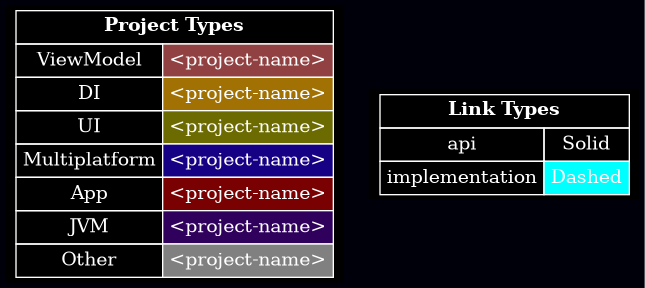
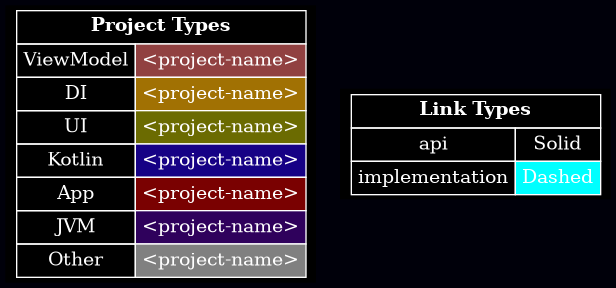
Rename module type (#862)

diff --git a/gradle/build-logic/src/main/kotlin/aktual/gradle/ModuleKotlin.kt b/gradle/build-logic/src/main/kotlin/aktual/gradle/ModuleKotlin.kt
@@ -14,7 +14,7 @@ import org.gradle.kotlin.dsl.apply
 import org.gradle.kotlin.dsl.configure
 import org.jetbrains.kotlin.gradle.plugin.KotlinMultiplatformPluginWrapper
 
-class ModuleMultiplatform : Plugin<Project> {
+class ModuleKotlin : Plugin<Project> {
   override fun apply(target: Project): Unit =
     with(target) {
       with(pluginManager) {

diff --git a/gradle/build-logic/src/main/kotlin/aktual/gradle/ModuleCompose.kt b/gradle/build-logic/src/main/kotlin/aktual/gradle/ModuleCompose.kt
@@ -21,7 +21,7 @@ class ModuleCompose : Plugin<Project> {
   override fun apply(target: Project): Unit =
     with(target) {
       with(pluginManager) {
-        apply(ModuleMultiplatform::class)
+        apply(ModuleKotlin::class)
         apply(ConventionCompose::class)
       }
 

diff --git a/gradle/build-logic/src/main/kotlin/aktual/gradle/ModuleViewModel.kt b/gradle/build-logic/src/main/kotlin/aktual/gradle/ModuleViewModel.kt
@@ -11,7 +11,7 @@ class ModuleViewModel : Plugin<Project> {
   override fun apply(target: Project) =
     with(target) {
       with(pluginManager) {
-        apply(ModuleMultiplatform::class)
+        apply(ModuleKotlin::class)
         apply(ConventionCompose::class)
       }
 

diff --git a/gradle/build-logic/src/main/kotlin/aktual/gradle/ModuleDi.kt b/gradle/build-logic/src/main/kotlin/aktual/gradle/ModuleDi.kt
@@ -8,7 +8,7 @@ class ModuleDi : Plugin<Project> {
   override fun apply(target: Project) =
     with(target) {
       with(pluginManager) {
-        apply(ModuleMultiplatform::class)
+        apply(ModuleKotlin::class)
         apply(ConventionDi::class)
       }
     }

diff --git a/CLAUDE.md b/CLAUDE.md
@@ -246,7 +246,7 @@ kotlin {
 The project uses Gradle convention plugins to centralize build configuration:
 
 **Module Plugins** (use these when creating new modules):
-- `aktual.module.multiplatform` - Base KMP module (desktop + android targets)
+- `aktual.module.kotlin` - Base KMP module (desktop + android targets)
 - `aktual.module.compose` - Multiplatform + Compose + Material3
 - `aktual.module.viewmodel` - Compose + Molecule + lifecycle-viewmodel
 - `aktual.module.di` - Multiplatform + Metro DI
@@ -314,7 +314,7 @@ To change the Java version, simply update the `.java-version` file. Both the Gra
    ```kotlin
    // domain/build.gradle.kts
    plugins {
-     id("aktual.module.multiplatform")
+     id("aktual.module.kotlin")
    }
 
    // vm/build.gradle.kts

diff --git a/aktual-core/prefs/impl/README.md b/aktual-core/prefs/impl/README.md
@@ -1,4 +1,4 @@
-# aktual-core:prefs-impl
+# aktual-core:prefs:impl
 
 <!--region chart-->
 ![chart](atlas/chart.png)

diff --git a/aktual-core/prefs/di/README.md b/aktual-core/prefs/di/README.md
@@ -1,4 +1,4 @@
-# aktual-core:prefs-di
+# aktual-core:prefs:di
 
 <!--region chart-->
 ![chart](atlas/chart.png)
